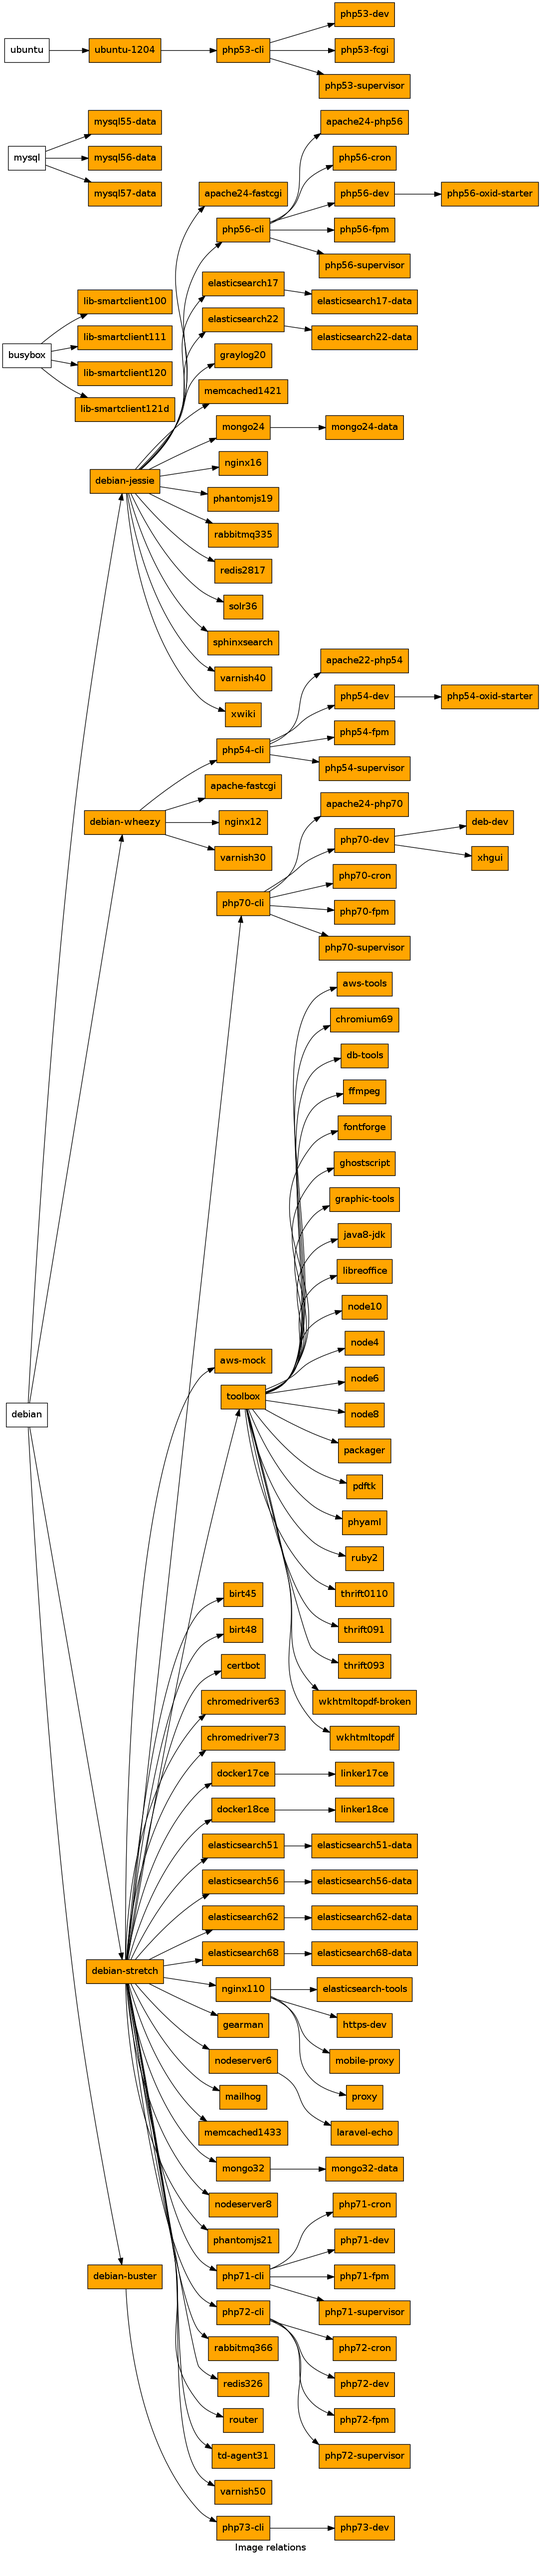
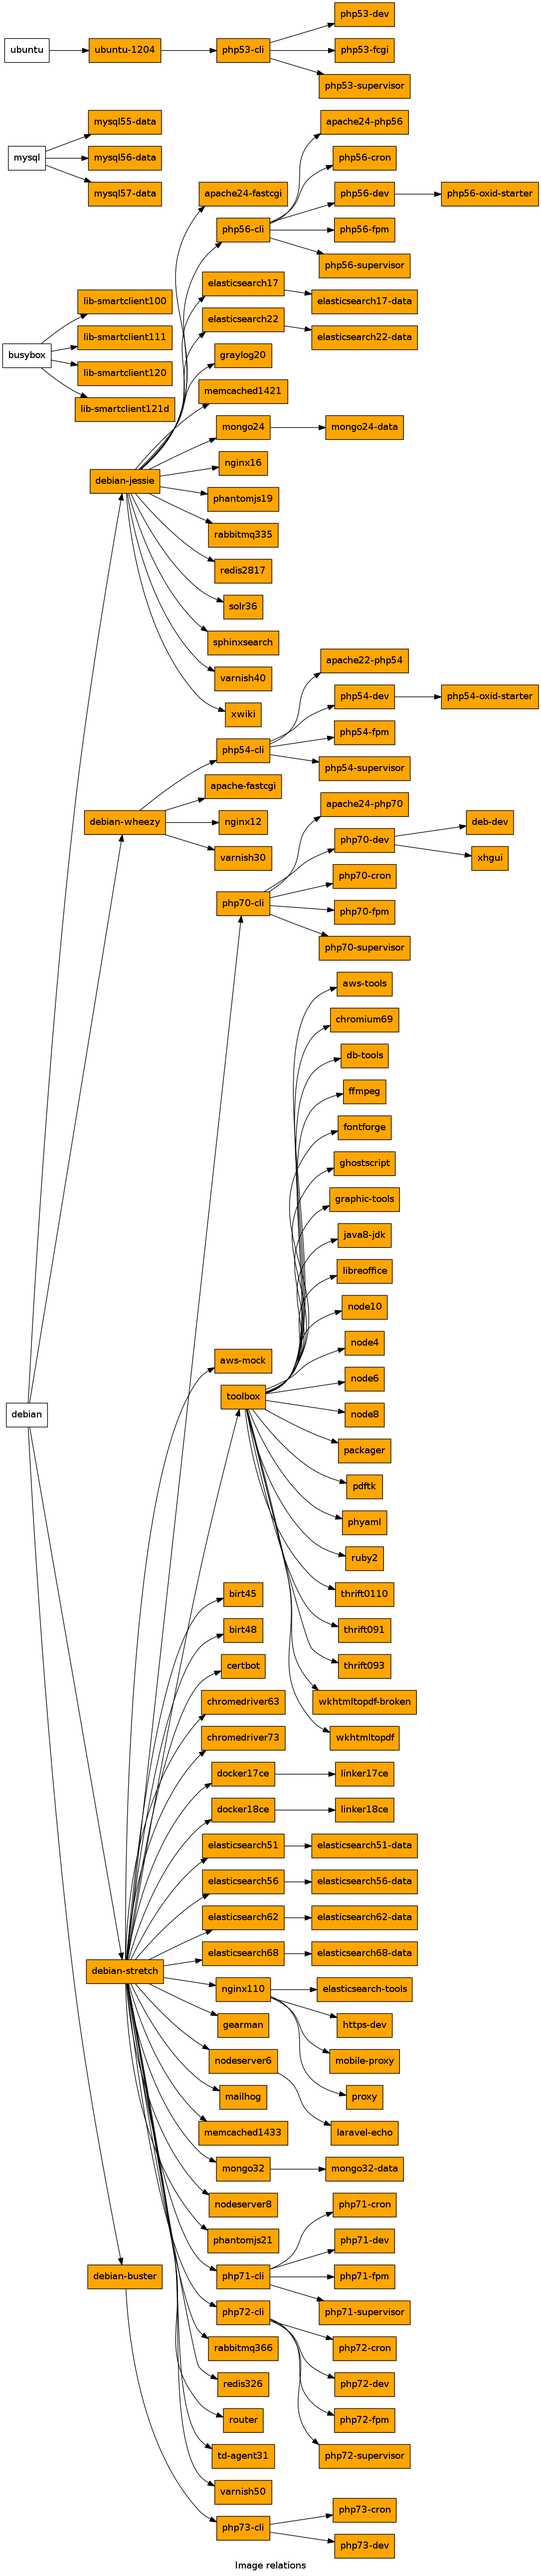
adding php73-cron image

diff --git a/php73-cron/README.md b/php73-cron/README.md
@@ -1,0 +1,29 @@
+
+## cron
+
+cron executed user cronjobs placed in NFQ_CRON_D_PATH directory.
+
+
+### logging
+
+to log crontjob output to stdout append `2>&1|logger` to every job line
+
+default behavior is to send output via mail
+
+
+### NFQ_CRON_D_PATH (required)
+
+Startup script will wait for this dir to be present and not empty before
+starting cron daemon. This dir must contain at least one file. Multiple cron
+jobs can be defined in a single file. Modifications to files in this directory
+are detected automatically and crontab gets updated.
+
+default value: none
+
+
+
+## php
+
+Inherited features are described in [parent readme](../php73-cli/README.md)
+
+
